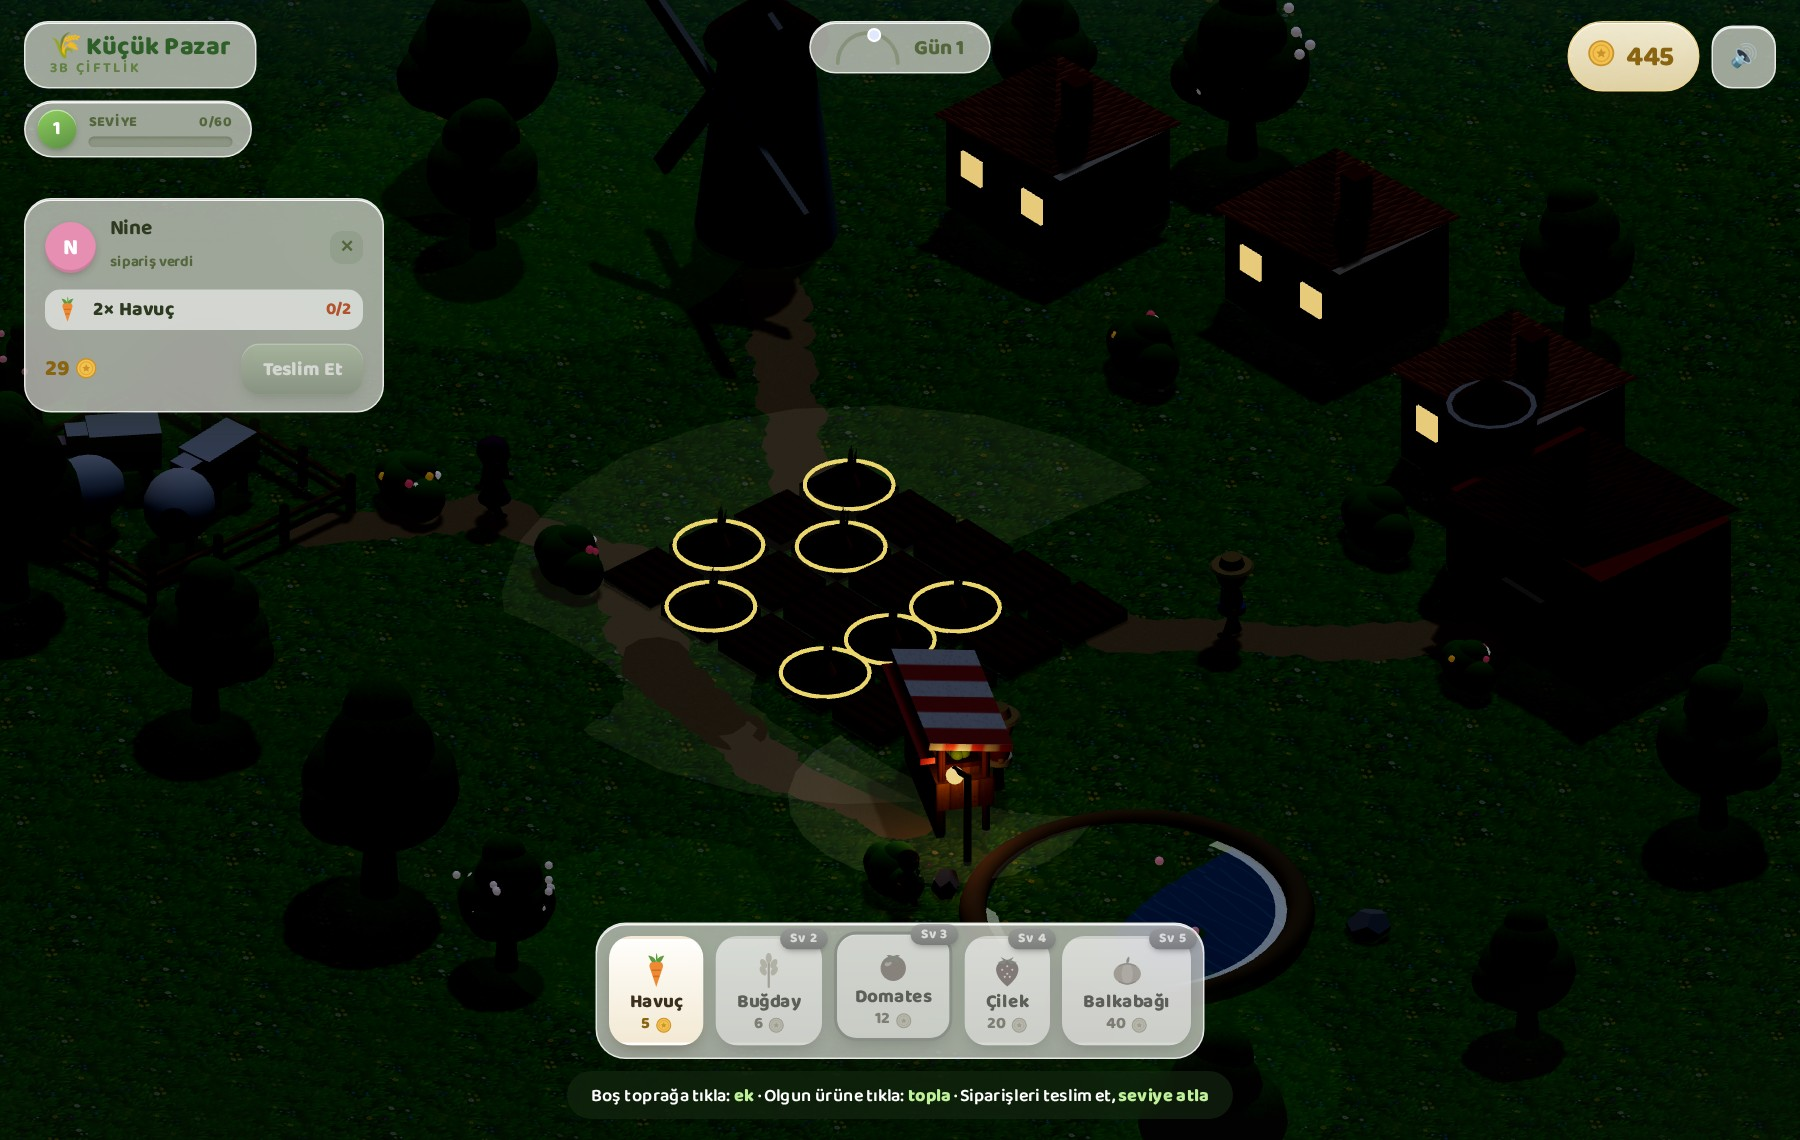
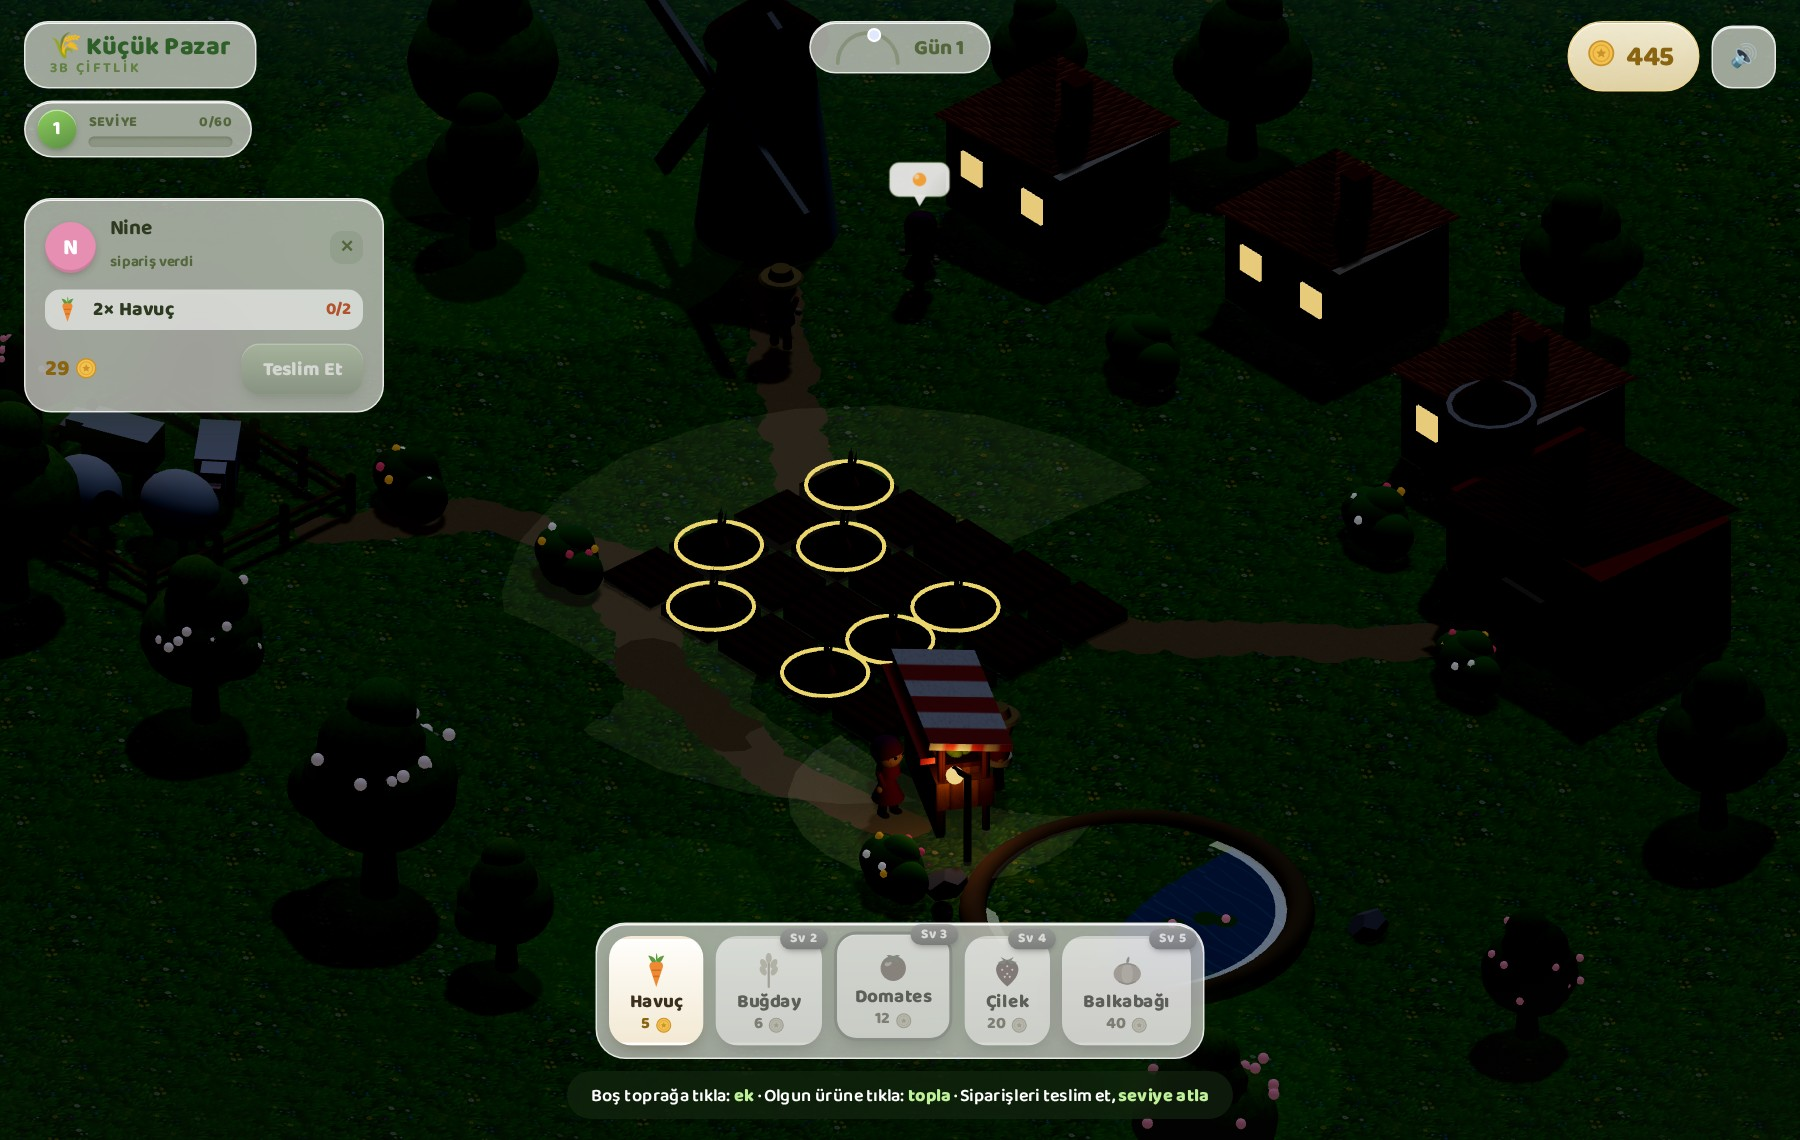
3d: customer NPCs — order-givers walk to the stall, wait and celebrate
Ties the order system to living characters. When an order is generated, that
villager leaves their home and walks the dirt-path network to the market
stall (each of the six customers has their own outfit — four new wardrobe
entries — and a hand-authored route). While waiting they idle at the counter
with a floating thought-bubble showing the colors of the produce they want
(canvas-drawn sprite, up to two dots).

On delivery the customer jumps in celebration, the bubble swaps to a heart,
pink heart particles burst, and they walk home and despawn. Rejecting the
order sends them quietly back; delivering or rejecting while they are still
en route turns them around mid-path (route reversal keeps their exact
position). A saved order re-spawns its customer already waiting at the stall
on load.

State machine (come/wait/celebrate/leave) updates in the render loop with
the shared walk-cycle limbs. Gameplay suite extended: customer spawns on
newOrder, waits after warp, celebrates on delivery — all green, zero console
errors.

diff --git a/cozy-farm-market/3d/scene.js b/cozy-farm-market/3d/scene.js
@@ -255,6 +255,10 @@ const VTYPES={
  farmer:{shirt:0xb85c37,bib:0x4f6fb8,pants:0x4a5d8a,hat:'straw'},
  grandma:{shirt:0xb85c8a,dress:true,pants:0x6e4658,hat:'kerchief',scarf:0x8a4468},
  kid:{shirt:0x6fae52,pants:0x7a5230,hat:'hair',hair:0x5b4126,scale:.7},
+ kemal:{shirt:0xe0a95d,bib:0xf5ead2,pants:0x5b4a38,hat:'straw'},
+ ayse:{shirt:0x8fbf72,dress:true,pants:0x4a6b3a,hat:'kerchief',scarf:0x6b9a55},
+ leyla:{shirt:0xb39ddb,dress:true,pants:0x5f4a78,hat:'hair',hair:0x3a2c22},
+ riza:{shirt:0xc8a288,bib:0x7a5230,pants:0x4a4038,hat:'straw'},
  vendor:{shirt:0xcb4f42,bib:0xf5ead2,pants:0x5b4a38,hat:'straw'},
 };
 function villager(tn){const o=VTYPES[tn]||VTYPES.farmer;const g=new THREE.Group();
@@ -414,17 +418,68 @@ const ICONS={
  strawberry:'<svg viewBox="0 0 40 40"><path d="M20 36.5C12.5 30.8 9 25 9 19.6 9 14 13.6 10 20 10s11 4 11 9.6c0 5.4-3.5 11.2-11 16.9z" fill="#e23c56"/><g fill="#ffd9a0"><circle cx="15" cy="20" r="1.05"/><circle cx="20" cy="24" r="1.05"/><circle cx="25" cy="20" r="1.05"/><circle cx="17.5" cy="27" r="1.05"/><circle cx="22.5" cy="27" r="1.05"/><circle cx="20" cy="16.5" r="1.05"/></g><path d="M20 10.5l-6.5-3.2 3.2 4.4-6.5.6 6.2 2.4zM20 10.5l6.5-3.2-3.2 4.4 6.5.6-6.2 2.4z" fill="#4c8a2f"/></svg>',
  pumpkin:'<svg viewBox="0 0 40 40"><ellipse cx="20" cy="24" rx="13.5" ry="10.5" fill="#ef8a34"/><ellipse cx="20" cy="24" rx="5.6" ry="10.5" fill="#f6a352"/><path d="M11.5 16.5q8.5-5 17 0M11.5 31.5q8.5 5 17 0" fill="none" stroke="#d06f22" stroke-width="1.4"/><path d="M19 13.2c-.2-3 .8-5.2 2.8-6.4.7 2.1.4 4.9-.9 6.6z" fill="#6b8f3c"/></svg>',
 };
-const CUSTS=[['Nine','#e78fb3'],['Fırıncı Kemal','#e0a95d'],['Küçük Ali','#7fb4e8'],['Manav Ayşe','#8fbf72'],['Öğretmen Leyla','#b39ddb'],['Değirmenci Rıza','#c8a288']];
+const CUSTS=[
+ ['Nine','#e78fb3','grandma',[[-9,-9.2],[-8.5,-2.6],[-4.9,0],[-4.9,5.4],[-1,7.7],[3.5,8.3],[8.5,7.5]]],
+ ['Fırıncı Kemal','#e0a95d','kemal',[[-2,-11.2],[-4,-6],[-4.9,0],[-4.9,5.4],[-1,7.7],[3.5,8.3],[8.5,7.5]]],
+ ['Küçük Ali','#7fb4e8','kid',[[5,-10.2],[8,-4],[4.9,-0.6],[6.5,2.5],[8.5,7.5]]],
+ ['Manav Ayşe','#8fbf72','ayse',[[11,-6.6],[8,-4],[6.5,2.5],[8.5,7.5]]],
+ ['Öğretmen Leyla','#b39ddb','leyla',[[15.5,-2],[12,1.5],[9.5,4.5],[8.5,7.5]]],
+ ['Değirmenci Rıza','#c8a288','riza',[[-11.4,-4.7],[-8.5,-2.6],[-4.9,0],[-4.9,5.4],[-1,7.7],[3.5,8.3],[8.5,7.5]]]];
+// ---- müşteri NPC sistemi: evden tezgaha yürü, balonla bekle, teslimatta sevin ----
+const customers=[];
+function _round(x,a,b,w,h,r){if(x.roundRect){x.beginPath();x.roundRect(a,b,w,h,r);}else{x.beginPath();x.rect(a,b,w,h);}}
+function bubbleTex(cols){const c=document.createElement('canvas');c.width=96;c.height=72;const x=c.getContext('2d');
+  x.fillStyle='rgba(255,253,247,.96)';_round(x,6,4,84,48,14);x.fill();
+  x.strokeStyle='rgba(110,130,80,.45)';x.lineWidth=2.5;_round(x,6,4,84,48,14);x.stroke();
+  x.fillStyle='rgba(255,253,247,.96)';x.beginPath();x.moveTo(40,50);x.lineTo(48,66);x.lineTo(58,50);x.closePath();x.fill();
+  cols.forEach((col,i)=>{x.fillStyle='#'+col.toString(16).padStart(6,'0');x.beginPath();x.arc(48-(cols.length-1)*12+i*24,28,10,0,7);x.fill();
+    x.fillStyle='rgba(255,255,255,.4)';x.beginPath();x.arc(44-(cols.length-1)*12+i*24,24,3.4,0,7);x.fill();});
+  const t=new THREE.CanvasTexture(c);t.colorSpace=THREE.SRGBColorSpace;return t;}
+const heartTex=(function(){const c=document.createElement('canvas');c.width=96;c.height=72;const x=c.getContext('2d');
+  x.fillStyle='#ff8fb3';x.beginPath();x.moveTo(48,58);x.bezierCurveTo(18,38,22,12,48,26);x.bezierCurveTo(74,12,78,38,48,58);x.fill();
+  x.fillStyle='rgba(255,255,255,.5)';x.beginPath();x.arc(38,26,5,0,7);x.fill();
+  const t=new THREE.CanvasTexture(c);t.colorSpace=THREE.SRGBColorSpace;return t;})();
+function spawnCustomer(o,instant){const meta=CUSTS[o.ci];const v=villager(meta[2]);
+  const cols=Object.keys(o.items).slice(0,2).map(k=>CROPS[k].col);
+  const bub=new THREE.Sprite(new THREE.SpriteMaterial({map:bubbleTex(cols),transparent:true,depthWrite:false}));
+  bub.scale.set(1.5,1.12,1);bub.position.y=2.8;v.g.add(bub);
+  const c={v,bub,route:meta[3],prog:instant?1:0,phase:instant?'wait':'come',order:o,t:0,ph:Math.random()*6.3};
+  const p0=instant?meta[3][meta[3].length-1]:meta[3][0];
+  v.g.position.set(p0[0],gh(p0[0],p0[1]),p0[1]);
+  if(instant)v.g.rotation.y=Math.atan2(7-p0[0],6.2-p0[1]);
+  scene.add(v.g);customers.push(c);return c;}
+function custFind(o){return customers.find(c=>c.order===o);}
+function sendHome(c){c.route=c.route.slice().reverse();c.prog=Math.max(0,1-c.prog);c.phase='leave';}
+function custDelivered(o){const c=custFind(o);if(!c)return;c.phase='celebrate';c.t=0;c.bub.material.map=heartTex;c.bub.material.needsUpdate=true;
+  const p=c.v.g.position;burst(p.x,p.y+2,p.z,0xff8fb3,10);}
+function custLeave(o){const c=custFind(o);if(c)sendHome(c);}
+function _setWalk(c,a,b,t){const sw=Math.sin(t*7+c.ph)*.52;
+  c.v.g.position.set(a.x,gh(a.x,a.z)+Math.abs(Math.sin(t*7+c.ph))*.035,a.z);
+  c.v.g.rotation.y=Math.atan2(b.x-a.x,b.z-a.z);
+  c.v.legL.rotation.x=sw;c.v.legR.rotation.x=-sw;c.v.armL.rotation.x=-sw*.75;c.v.armR.rotation.x=sw*.75;}
+function _resetLimbs(c){c.v.legL.rotation.x=0;c.v.legR.rotation.x=0;c.v.armL.rotation.x=0;c.v.armR.rotation.x=0;}
+function updateCustomers(dt,t){
+  for(let i=customers.length-1;i>=0;i--){const c=customers[i];const L=segLen(c.route);
+    if(c.phase==='come'){c.prog=Math.min(1,c.prog+dt*1.55/L);
+      _setWalk(c,path(c.route,c.prog),path(c.route,Math.min(1,c.prog+.02)),t);
+      if(c.prog>=1){c.phase='wait';const p=c.v.g.position;c.v.g.rotation.y=Math.atan2(7-p.x,6.2-p.z);_resetLimbs(c);}}
+    else if(c.phase==='wait'){const p=c.v.g.position;p.y=gh(p.x,p.z);
+      c.v.armR.rotation.x=Math.sin(t*1.6+c.ph)*.1;c.bub.position.y=2.8+Math.sin(t*2+c.ph)*.08;}
+    else if(c.phase==='celebrate'){c.t+=dt;const p=c.v.g.position;p.y=gh(p.x,p.z)+Math.abs(Math.sin(c.t*9))*.3;
+      if(c.t>1.6)sendHome(c);}
+    else if(c.phase==='leave'){c.prog=Math.min(1,c.prog+dt*1.75/L);
+      _setWalk(c,path(c.route,c.prog),path(c.route,Math.min(1,c.prog+.02)),t);
+      if(c.prog>=1){scene.remove(c.v.g);customers.splice(i,1);}}}}
 let order=null, prevDayT=0;
 function unlockedCrops(){return Object.keys(CROPS).filter(k=>CROPS[k].lvl<=level);}
 function newOrder(){const pool=unlockedCrops();const n=(level>=3&&Math.random()<.55)?2:1;const picks=[];
   while(picks.length<n){const k=pool[Math.floor(Math.random()*pool.length)];if(!picks.includes(k))picks.push(k);}
   const items={};let total=0;for(const k of picks){const q=2+Math.floor(Math.random()*3);items[k]=q;total+=CROPS[k].value*q;}
-  const cust=CUSTS[Math.floor(Math.random()*CUSTS.length)];
-  order={cust:cust[0],col:cust[1],items,reward:Math.round(total*1.6)};renderOrder();save();}
+  const ci=Math.floor(Math.random()*CUSTS.length);const cust=CUSTS[ci];
+  order={cust:cust[0],col:cust[1],ci,items,reward:Math.round(total*1.6)};spawnCustomer(order,false);renderOrder();save();}
 function canDeliver(){if(!order)return false;for(const k in order.items)if((inv[k]||0)<order.items[k])return false;return true;}
-function deliverOrder(){if(!canDeliver())return false;for(const k in order.items)inv[k]-=order.items[k];coins+=order.reward;bumpCoins();stallBurst();sfx('order');toast('Sipariş teslim! +'+order.reward+' '+COIN,'gold');addXp(Math.round(order.reward/2));order=null;renderOrder();updateHUD();save();setTimeout(()=>{if(!order)newOrder();},4000);return true;}
-function rejectOrder(){if(!order)return;order=null;renderOrder();save();setTimeout(()=>{if(!order)newOrder();},1600);}
+function deliverOrder(){if(!canDeliver())return false;for(const k in order.items)inv[k]-=order.items[k];coins+=order.reward;bumpCoins();stallBurst();custDelivered(order);sfx('order');toast('Sipariş teslim! +'+order.reward+' '+COIN,'gold');addXp(Math.round(order.reward/2));order=null;renderOrder();updateHUD();save();setTimeout(()=>{if(!order)newOrder();},4000);return true;}
+function rejectOrder(){if(!order)return;custLeave(order);order=null;renderOrder();save();setTimeout(()=>{if(!order)newOrder();},1600);}
 function renderOrder(){const el=$('ordercard');if(!el)return;
   if(!order){el.classList.add('gone');el.innerHTML='';return;}
   let rows='';for(const k in order.items){const c=CROPS[k],have=inv[k]||0,need=order.items[k];
@@ -489,6 +544,7 @@ function loop(now){const dt=Math.min((now-last)/1000,.05);last=now;const t=now/1
     n.g.rotation.y=Math.atan2(b.x-a.x,b.z-a.z);
     if(n.legL){n.legL.rotation.x=sw;n.legR.rotation.x=-sw;n.armL.rotation.x=-sw*.75;n.armR.rotation.x=sw*.75;}}
   for(const q of idlers){q.v.armR.rotation.z=-.25+Math.sin(t*1.8+q.ph)*.14;q.v.g.rotation.y+=Math.sin(t*.7+q.ph)*.0006;}
+  updateCustomers(dt,t);
   const nowMs=Date.now();
   for(const p of plots){ if(p.state==='empty'||!p.cropObj)continue; const c=CROPS[p.crop]; const prog=(nowMs-p.planted)/(c.grow*1000); const ripe=prog>=1; p.cropObj.update(prog,ripe);
     if(ripe){ if(p.state!=='ripe'){p.state='ripe';p.ring.visible=true;} p.cropObj.group.position.y=Math.abs(Math.sin(t*3))*0.12; p.ring.scale.setScalar(1+Math.sin(t*3)*0.06); p.ring.material.opacity=1; }
@@ -502,9 +558,9 @@ $('mute').onclick=()=>{muted=!muted;$('mute').textContent=muted?'🔇':'🔊';if
 applyDayNight(dayT); load();
 const _ci=$('coinIco'); if(_ci)_ci.innerHTML=COIN;
 const _dt=$('dayTxt'); if(_dt)_dt.textContent='Gün '+day;
-if(order)renderOrder(); else setTimeout(()=>{if(!order)newOrder();},1400);
+if(order){if(order.ci==null)order.ci=0;spawnCustomer(order,true);renderOrder();} else setTimeout(()=>{if(!order)newOrder();},1400);
 updateHUD(); fitCam(); addEventListener('resize',fitCam); updateCam(); requestAnimationFrame(loop);
-window.__game={plots,plant,harvest,sellAll,deliverOrder,newOrder,rejectOrder,addInv:(k,n)=>{inv[k]=(inv[k]||0)+n;updateHUD();},addXp,state:()=>({coins,xp,level,day,inv:{...inv},order:order&&JSON.parse(JSON.stringify(order)),plots:plots.map(p=>p.state)}),setSel:k=>{selected=k;buildSeedbar();}};
+window.__game={plots,plant,harvest,sellAll,deliverOrder,newOrder,rejectOrder,custs:()=>customers.map(c=>({phase:c.phase,prog:+c.prog.toFixed(2)})),custWarp:()=>{customers.forEach(c=>{c.prog=.999;});},addInv:(k,n)=>{inv[k]=(inv[k]||0)+n;updateHUD();},addXp,state:()=>({coins,xp,level,day,inv:{...inv},order:order&&JSON.parse(JSON.stringify(order)),plots:plots.map(p=>p.state)}),setSel:k=>{selected=k;buildSeedbar();}};
 window.__proj=(x,y,z)=>proj(x,y,z);
 window.__setTime=t=>{applyDayNight(t);return{dayT,night};};
 window.__ready=true;

diff --git a/cozy-farm-market/README.md b/cozy-farm-market/README.md
@@ -15,7 +15,11 @@ otomatik kaydedilir (localStorage).
 > tıkla → ek; ürünler gerçek zamanlı 3B büyür (5 ürün: havuç/buğday/domates/çilek/balkabağı —
 > **seviye ile açılır**); olgunlaşınca altın halka belirir, tıkla → **topla, envantere girer**.
 > **Sipariş sistemi:** kasabalılar (Nine, Fırıncı Kemal, Küçük Ali...) belirli ürünler ister ve
-> taban fiyatın **×1.6'sını** öder — ya da envanteri tek tuşla pazarda sat (taban fiyat). Hasat
+> taban fiyatın **×1.6'sını** öder — ya da envanteri tek tuşla pazarda sat (taban fiyat).
+> **Müşteri NPC'leri:** sipariş veren kasabalı **evinden çıkıp patikalardan tezgaha yürür** (her
+> müşterinin kendi kostümü ve rotası var), kafasında istediği ürünlerin renklerini gösteren
+> **düşünce balonuyla** bekler; teslim edince **zıplayarak sevinir**, balonu kalbe döner, kalp
+> partikülleri saçılır ve evine döner. Reddedersen sessizce geri döner. Hasat
 > ve siparişler **XP** verir; **5 seviye**, her biri yeni ürün açar (HUD'da rozet + ilerleme barı).
 > **Oyun hissi:** tarla üzerinde hover vurgusu + imleç, hasatta 3B **partikül patlaması**, uçan
 > ürün ikonları, altın sayacı zıplaması, toast bildirimleri, sipariş tesliminde tezgahta altın
